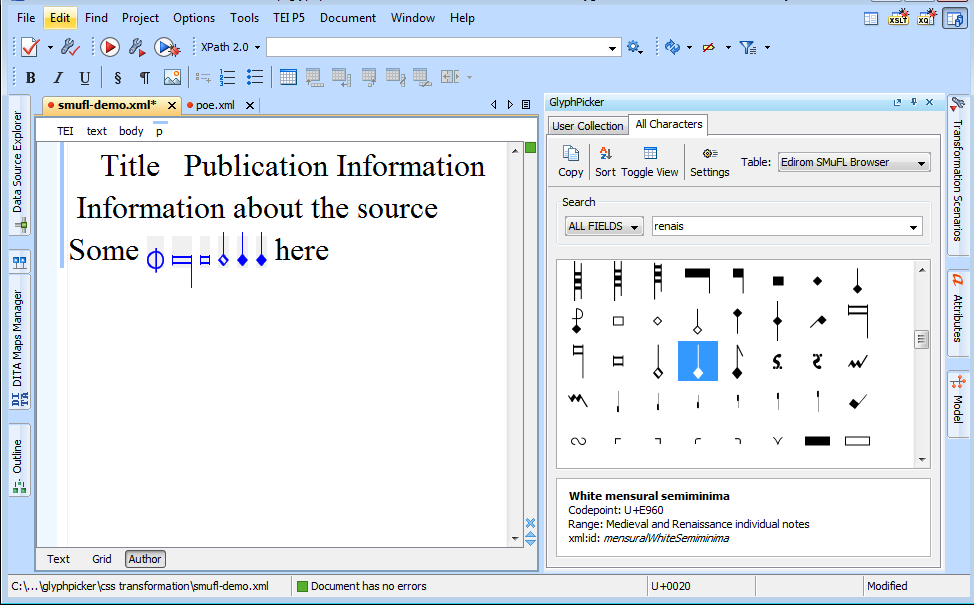
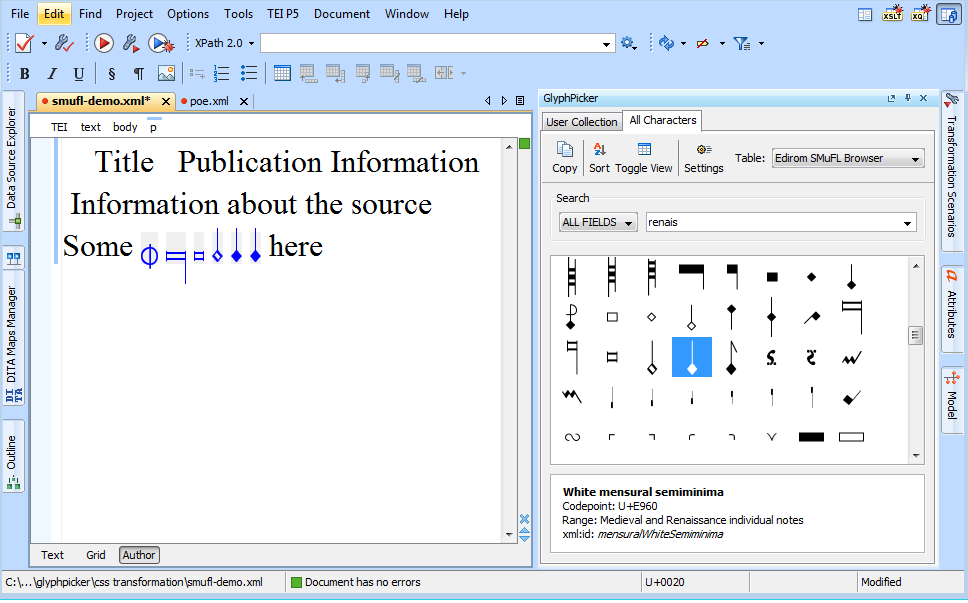
added more documentation; cropped img

diff --git a/_posts/2014-12-14-custom-data.md b/_posts/2014-12-14-custom-data.md
@@ -1,0 +1,40 @@
+---
+layout: page
+title: "Incorporating custom character declarations"
+category: doc
+date: 2014-12-14 06:23:59
+---
+
+The GlyphPicker plugin reads its data from the content of a TEI file's `<charDecl>` element. In order to provide custom
+ character declarations, create a TEI file containing all the character declarations and add a new entry in the plugin's 
+  settings dialog. Provide a reference to your TEI file in the field `Path to Character Declarations`. 
+
+For examples of files containing multiple character declarations, see the
+ [ENRICH gBank](http://www.manuscriptorium.com/apps/gbank/) (get the ZIP file) and the [SMuFL-Browser](http://edirom.de/smufl-browser/index.tei).
+
+The plugin maps the content of the TEI file in the following manner: 
+
+- The content of the `<desc>` child element if each `<charDecl>` is interpreted as the 'range' description of all characters
+ defined in that `<charDecl>`. If you want to distinguish between different ranges, put your characters in separate `<charDecl>` elements,
+ and provide the name of the range in the `<desc>` child element.
+- Each `<char>` or `<glyph>` child element of a `<charDecl>` is interpreted as a separate character / glyph declaration. 
+You should add an `xml:id` to each `<char>` and `<glyph>` element, otherwise the plugin won't be able to provide `<g>` with
+an id reference to the declaration.
+- The character name is read from the content of the last ancestor element with the name `desc`, `charName` or `glyphName`
+
+- As described in the TEI Guidelines, the `<mapping>` child element of `<char>` / `<glyph>` 
+"contains one or more characters which are related to the parent character or glyph in 
+some respect, as specified by the type attribute" (see [guidelines, mapping](http://www.tei-c.org/release/doc/tei-p5-doc/de/html/ref-mapping.html)).
+The TEI schema allows single character / glyph declarations to contain multiple `<mapping>` child elements, but font-based character rendering in the
+ GylphPicker plugin depends on a single mapping. If there are multiple mappings in the character declaration, it's necessary to specify which one to use 
+ for rendering in the GlyphPicker settings dialog. Currently, specific mappings can be selected by providing a `@type` or `@subtype` attribute (or both). 
+  If there are multiple `<mapping>` elements matching the criteria, the plugin only takes the last one into account. If the `@type` or `@subtype` field is left empty in
+  the table settings of the plugin, the attribute in concern will not be evaluated by the plugin.
+- The content of the `<mapping>` element may either consist of characters / numeric character reference like `&#xE002;` or of unicode code point references like `U+E002`; the 
+latter case requires the "parse mapping/text()" option in the table options to be checked; the first case requires it to be unchecked. Support 
+for `<g>` references in `<mapping>` is still experimental (currently, it's restricted to reference targets in the same file and won't take `<g>` references in referenced glyph definitions into account.)
+- When characters should be rendered as bitmap images, a `<graphic>` child element of `<char>` / `<glyph>` is required, containing in its `@url` attribute the absolute or relative path
+of the image file. Relative paths are assumed to be relative to the XML file containing the character declarations. (If you intend to extract glyph images from a font file, the
+`otf2png` converter used in the [SMuFL-Browser project](https://github.com/Edirom/SMuFL-Browser) might be helpful.)
+
+Extending the plugin's TEI data mapping capabilities should be fairly easy in most cases; for additions / changes, please send a feature or pull request at https://github.com/richard-strauss-werke/glyphpicker.

diff --git a/index.md b/index.md
@@ -5,10 +5,17 @@ title: "GlyphPicker"
 
 # <img src="img/EBC6.png" style="padding-right:1.5em"></img>GlyphPicker
 
-The GlyphPicker plugin adds a component to oXygen which allows to
-browse TEI character declarations and insert glyph references into TEI documents. 
 
-<p style="text-align:center">
+The GlyphPicker plugin is an add-on to the XML editor [oXygen](http://www.oxygenxml.com/) and provides
+support for inserting non-standard characters into TEI documents.
+
+The character tables displayed by the plugin are based on XML character declarations encoded according to the
+TEI's Gaiji module (see http://www.tei-c.org/release/doc/tei-p5-doc/en/html/WD.html), allowing to incorporate 
+data shared across projects (see [ENRICH gBank](http://www.manuscriptorium.com/apps/gbank/) and [SMuFL-Browser](http://edirom.de/smufl-browser) available on the web) 
+as well as custom character declarations / subsets of ENRICH or SMuFL specific to a particular encoding project (see the section 
+[Incorporating custom character declarations]({{ site.baseurl }}{% post_url 2014-12-14-custom-data %})).
+
+<p style="text-align:center;text-align:center;padding-top:2em;padding-bottom:2em">
 <img src="img/oxygen.PNG" style="width:80%"></img>
 </p>
 
@@ -18,20 +25,21 @@ browse TEI character declarations and insert glyph references into TEI documents
 - Template engine for custom XML output
 - Support of oXygen's Text and Author mode
 - Search facilities
-- SOON Pre-configured access to character declarations provided by the SMuFL Browser and ENRICH gBank webservices
-- Support for custom character declarations provided by a web server of a local file
+- Pre-configured character tables by the SMuFL Browser and ENRICH gBank projects
 
 #### Requirements
 
 The GlyphPicker plugin requires oXygen v15.0 or higher.
 
-#### Update site
+#### Installation
 
-`http://richard-strauss-werke.github.io/glyphpicker/update/latest.xml`
+Add `http://richard-strauss-werke.github.io/glyphpicker/update/latest.xml` to oXygen's update sites or read
+[Installation and basic usage]({{ site.baseurl }}{% post_url 2014-12-18-setup %}) for more detailed instructions.
 
 #### Contribute
 
-You can fork or clone the source code at https://github.com/richard-strauss-werke/glyphpicker; for setup instructions, see the `development` section on this page.
+You can fork or clone the source code at https://github.com/richard-strauss-werke/glyphpicker; for further 
+instructions, see [Development]({{ site.baseurl }}{% post_url 2014-12-13-development %}).
 
 #### Issues
 

diff --git a/_posts/2014-12-17-adjustments.md b/_posts/2014-12-17-adjustments.md
@@ -1,0 +1,72 @@
+---
+layout: page
+title: "Adjusting the XML output"
+category: doc
+date: 2014-12-17 21:33:40
+---
+
+You can adjust the XML code inserted from the GlyphPicker plugin into XML documents by changing the template of the 
+  character table in concern. For this, open the "Settings" dialog of the plugin and, on the left, select the character table you
+  want to change.
+  
+  Besides regular text, the "Template" field may contain the following placeholders which get resolved when a character gets inserted into an XML document:
+
+- ${basePath}: the content of the field "Path to Character Declarations"
+- ${id}: the xml:id of the character declaration
+- ${char}: characters obtained from a `<mapping>` element in the character declaration 
+- ${num}: numeric character references obtained from a `<mapping>` element in the character declaration 
+
+Examples:
+
+Use a custom base url and the xml:id in order to provide the full path to the character declaration in each `<g>` element:
+
+```
+Template:
+<g ref="http://edirom.de/smufl-browser/${id}.xml"/>
+
+Result:
+<g ref="http://edirom.de/smufl-browser/luteFrenchFretG.xml"/>
+```
+
+Set prefix and id in the ref attribute:
+
+```
+Template:
+<g ref="s:${id}"/>
+
+Result:
+<g ref="s:luteFrenchFretG"/>
+```
+
+This reduces the number of characters in the `<g>` elements. The prefix can be resolved in the TEI header of the document, see http://www.tei-c.org/release/doc/tei-p5-doc/de/html/SA.html#SAPU:
+
+```
+<listPrefixDef>
+ <prefixDef ident="s"
+  matchPattern="([A-Za-z]+)"
+  replacementPattern="http://edirom.de/smufl-browser/$1.xml">
+  <p> xxx </p>
+ </prefixDef>
+ <prefixDef ident="g"
+  matchPattern="([A-Za-z0-9]+)"
+  replacementPattern="http://www.example.com/mychardecl.xml#$1">
+  <p> xxx </p>
+ </prefixDef>
+</listPrefixDef>
+```
+
+Set only the id in the ref attribute and add a numeric character reference as text content:
+
+```
+Template:
+<g ref="#${id}">${num}</g>
+
+Result:
+<g ref="#luteFrenchFretG">&#xEBC6;</g>
+```
+
+Adding characters or numeric character reference to the document can simplify displaying the characters at the cost of encoding a specific character mapping.
+Since id and code point references can be altered independently, projects might consider adding automatic text
+ quality checks to be sure there mismatching combinations.
+
+The resulting XML code fragment references an element with the xml:id `luteFrenchFretG` in the same document (or included via xinclude).

diff --git a/_posts/2014-12-11-options.md b/_posts/2014-12-11-options.md
@@ -1,0 +1,64 @@
+---
+layout: page
+title: "Options Dialog Reference"
+category: doc
+date: 2014-12-11 21:33:40
+---
+
+### Character Tables
+
+#### Name
+
+The name of the table as displayed in the main panel
+
+#### Path to Character Declarations
+
+The path to the XML file or web service providing the TEI character declarations
+
+#### Glyph Renderer
+
+Specifies which renderer to use when displaying glyphs of this table
+
+- `bitmap`: Renders a bitmap image based on the value of the `@url` attribute of
+ the character's `graphic` child element.
+- `vector`: Renders a glyph vector from a system font; the relative size of all glyphs is preserved.
+- `scaled vector`: Like `vector`, but each glyph is scaled to fit its list/table cell.
+
+#### Font Name
+
+The name of the system font used to render glyphs with the `vector` or `scaled vector`.
+
+#### Glyph Size in %
+
+The size of the rendered glyphs relative to their container (which is 40x40px)
+
+#### Template
+
+Specifies in which way the glyph data should be inserted into the document. For details, see [Adjusting the XML output]({{ site.baseurl }}{% post_url 2014-12-17-adjustments %})
+
+#### Value of mapping/@type
+
+A TEI `<char>` element may contain multiple mappings; by providing the value of a type attribute, you can select the mapping element which should be
+used by GlyphPicker to display the glyphs.
+
+#### Value of mapping/@subtype
+
+See Value of mapping/@type
+
+#### Parse mapping/text()
+
+Set this checkbox when the mapping element in concern doesn't contain characters or numeric character references but strings following the scheme `U+xxxx`.
+
+### Plugin
+
+#### GlyphPicker keyboard shortcut
+
+Customize the keyboard shortcut which opens the GlyphPicker panel
+
+#### Image cache
+
+Shows the current number of images in the plugin's image cache and provides an option to clear the cache.
+
+#### Transfer focus after insert action
+
+When selected, the component focus will be transferred from the glyph picker panel each time a character reference gets inserted into the XML document from the GlyphPicker plugin.

diff --git a/_posts/2014-12-12-shortcuts.md b/_posts/2014-12-12-shortcuts.md
@@ -2,7 +2,7 @@
 layout: page
 title: "Keyboard Shortcuts"
 category: doc
-date: 2014-12-16 06:23:59
+date: 2014-12-12 06:23:59
 ---
 
 ### Plugin shortcut

diff --git a/_posts/2014-12-15-css.md b/_posts/2014-12-15-css.md
@@ -1,0 +1,8 @@
+---
+layout: page
+title: "Display of characters in oXygen's Author pane"
+category: doc
+date: 2014-12-15 06:23:59
+---
+
+

diff --git a/_posts/2014-12-13-development.md b/_posts/2014-12-13-development.md
@@ -2,7 +2,7 @@
 layout: page
 title: "Development"
 category: doc
-date: 2014-12-15 06:23:59
+date: 2014-12-13 06:23:59
 ---
 
 #### Setup

diff --git a/_posts/2014-12-18-setup.md b/_posts/2014-12-18-setup.md
@@ -1,6 +1,6 @@
 ---
 layout: page
-title: "Setup"
+title: "Installation and basic usage"
 category: doc
 date: 2014-12-18 06:23:59
 ---
